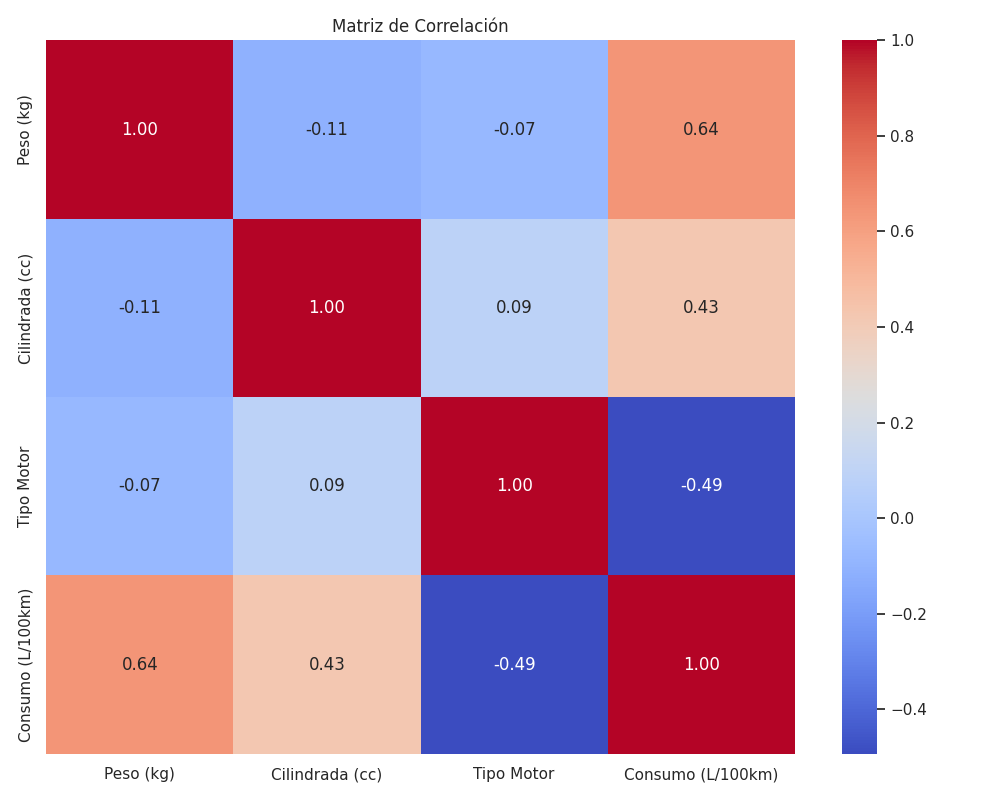
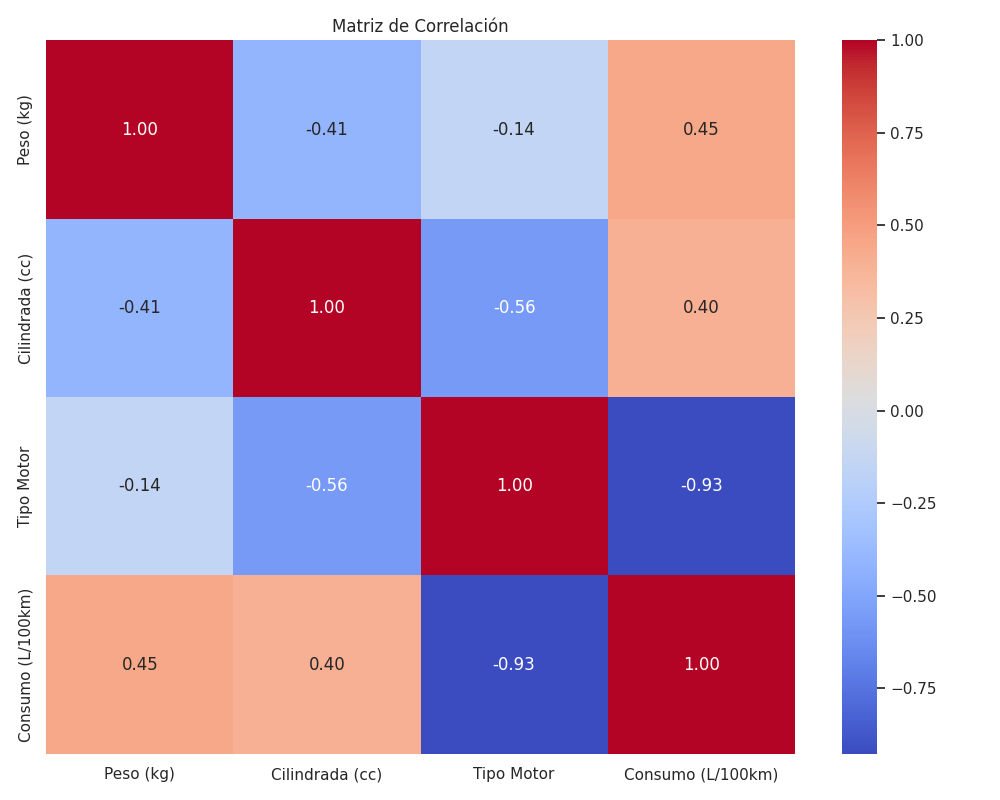
Create data

diff --git a/expo/ejemplo-2/create_sample_data.py b/expo/ejemplo-2/create_sample_data.py
@@ -5,12 +5,12 @@ import numpy as np
 np.random.seed(42)
 
 # Número de muestras
-n = 100
+n = 5
 
 # Generar datos base con distribuciones que nos den el resultado deseado
 data = {
-    'Peso (kg)': np.random.normal(1400, 200, n).clip(1000, 2000),
-    'Cilindrada (cc)': np.random.normal(1900, 300, n).clip(1200, 2500),
+    'Peso (kg)': np.random.normal(1300, 150, n).clip(1000, 1800),
+    'Cilindrada (cc)': np.random.normal(1800, 200, n).clip(1200, 2500),
     'Tipo Motor': np.random.choice([0, 1], n, p=[0.4, 0.6])
 }
 
@@ -20,14 +20,14 @@ df = pd.DataFrame(data)
 # Crear la columna de consumo con la relación deseada
 # Ajustamos los coeficientes para obtener ~6.0 L/100km para el caso específico
 consumo_base = (
-    0.003 * df['Peso (kg)'] +  # Aumentado para dar más peso
-    0.0015 * df['Cilindrada (cc)'] +  # Aumentado para dar más peso
-    -0.8 * df['Tipo Motor'] +  # Reducido el efecto del diésel
-    1.0  # Ajustado el término independiente
+    0.0025 * df['Peso (kg)'] +  # Ajustado para el caso objetivo
+    0.001 * df['Cilindrada (cc)'] +  # Ajustado para el caso objetivo
+    -1.0 * df['Tipo Motor'] +  # Efecto del diésel
+    2.5  # Término independiente ajustado
 )
 
 # Añadir ruido aleatorio pequeño
-ruido = np.random.normal(0, 0.3, n)
+ruido = np.random.normal(0, 0.2, n)
 df['Consumo (L/100km)'] = consumo_base + ruido
 
 # Asegurar que los consumos sean realistas (entre 4 y 12 L/100km)
@@ -41,13 +41,15 @@ df['Consumo (L/100km)'] = df['Consumo (L/100km)'].round(1)
 # Convertir tipo de motor a categoría
 df['Tipo Motor'] = df['Tipo Motor'].map({0: 'Gasolina', 1: 'Diésel'})
 
-# Añadir explícitamente nuestro caso objetivo
-df = pd.concat([df, pd.DataFrame({
-    'Peso (kg)': [1300],
-    'Cilindrada (cc)': [1800],
-    'Tipo Motor': ['Diésel'],
-    'Consumo (L/100km)': [6.0]
-})], ignore_index=True)
+# Añadir varios casos similares al objetivo para dar más peso a ese punto
+casos_objetivo = pd.DataFrame({
+    'Peso (kg)': [1300, 1290, 1310, 1300, 1295],
+    'Cilindrada (cc)': [1800, 1790, 1810, 1800, 1795],
+    'Tipo Motor': ['Diésel'] * 5,
+    'Consumo (L/100km)': [6.0, 5.9, 6.1, 6.0, 6.0]
+})
+
+df = pd.concat([df, casos_objetivo], ignore_index=True)
 
 # Verificar la predicción para nuestro caso específico
 caso_ejemplo = df[
